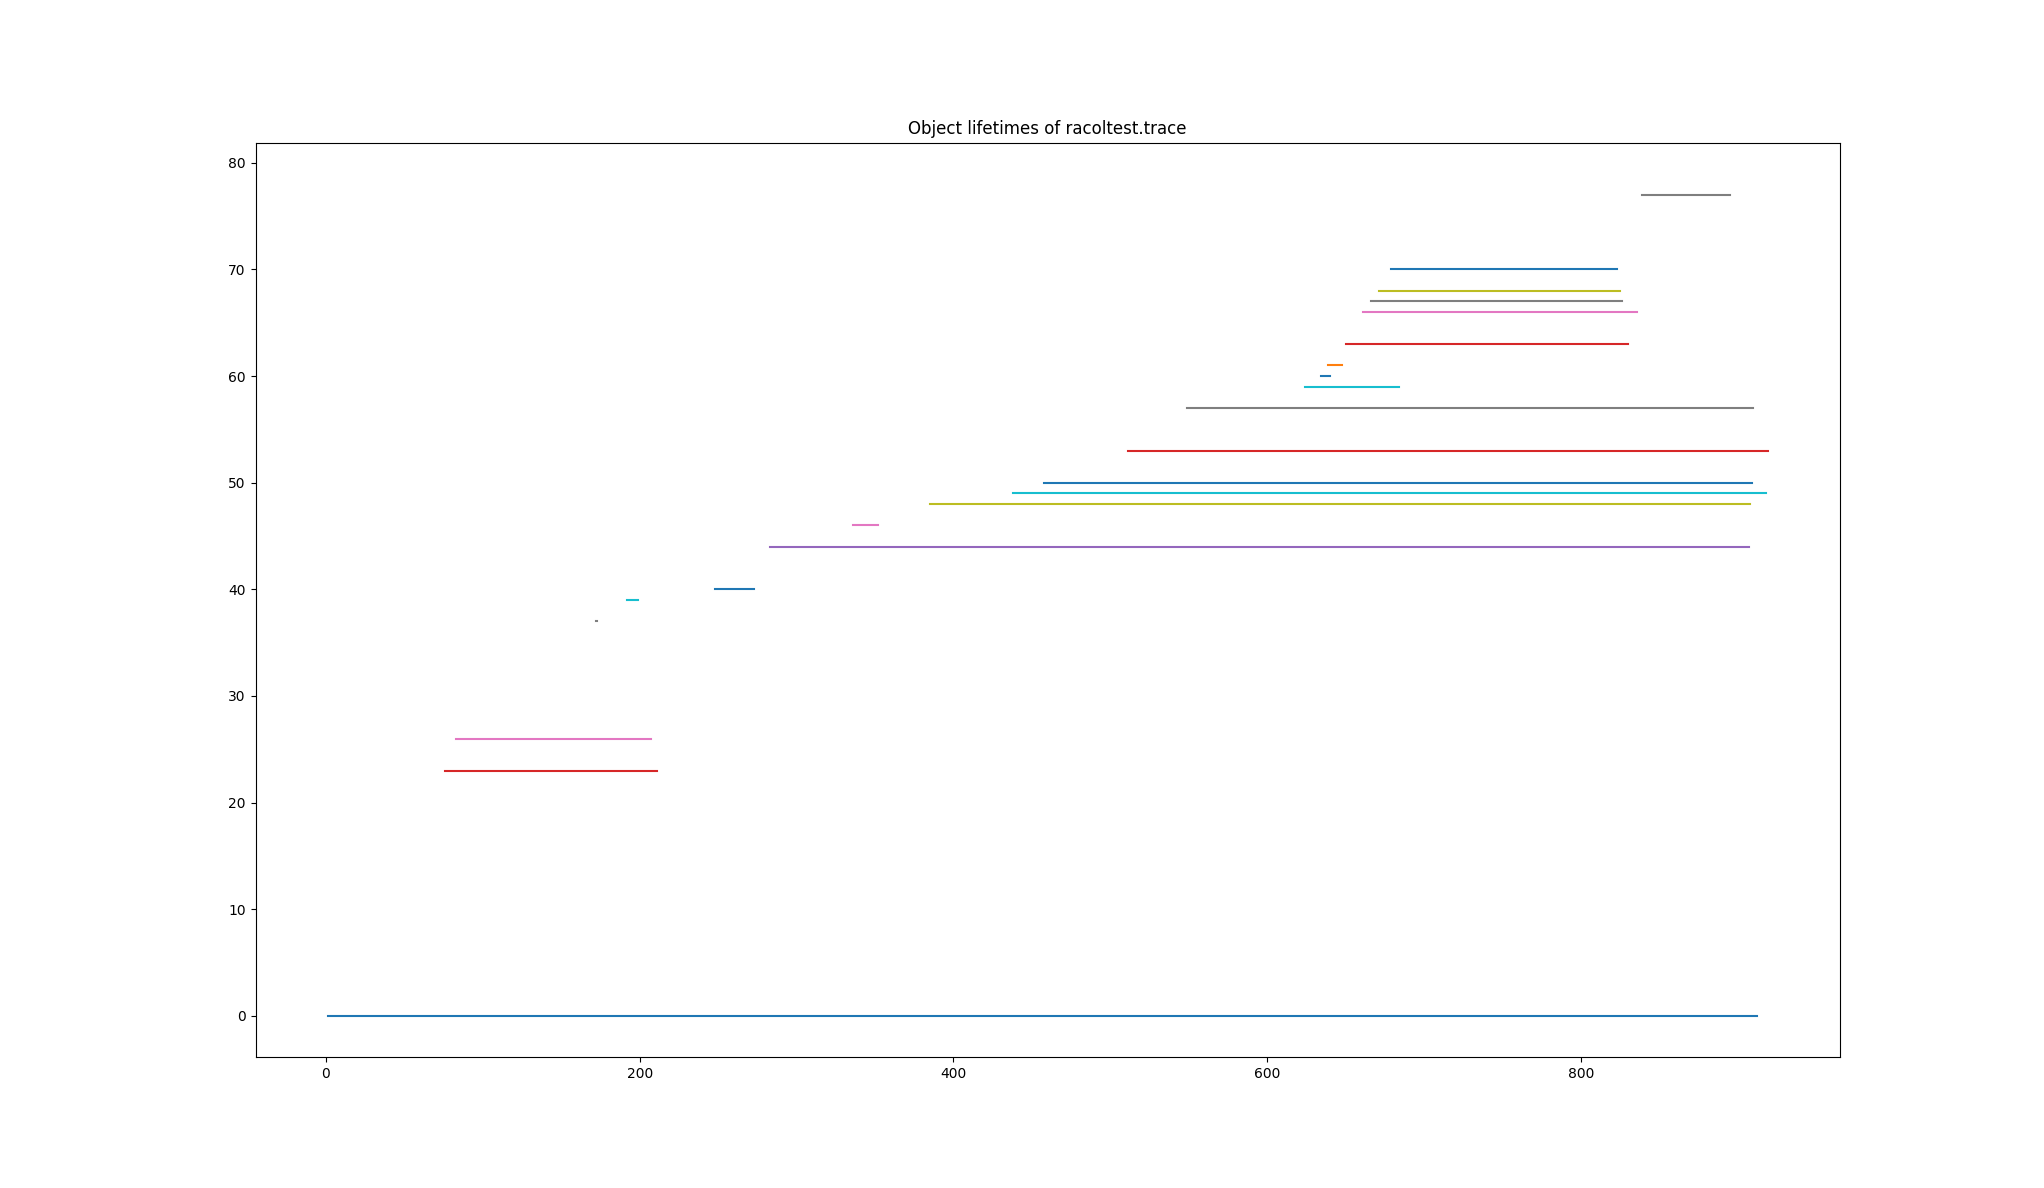
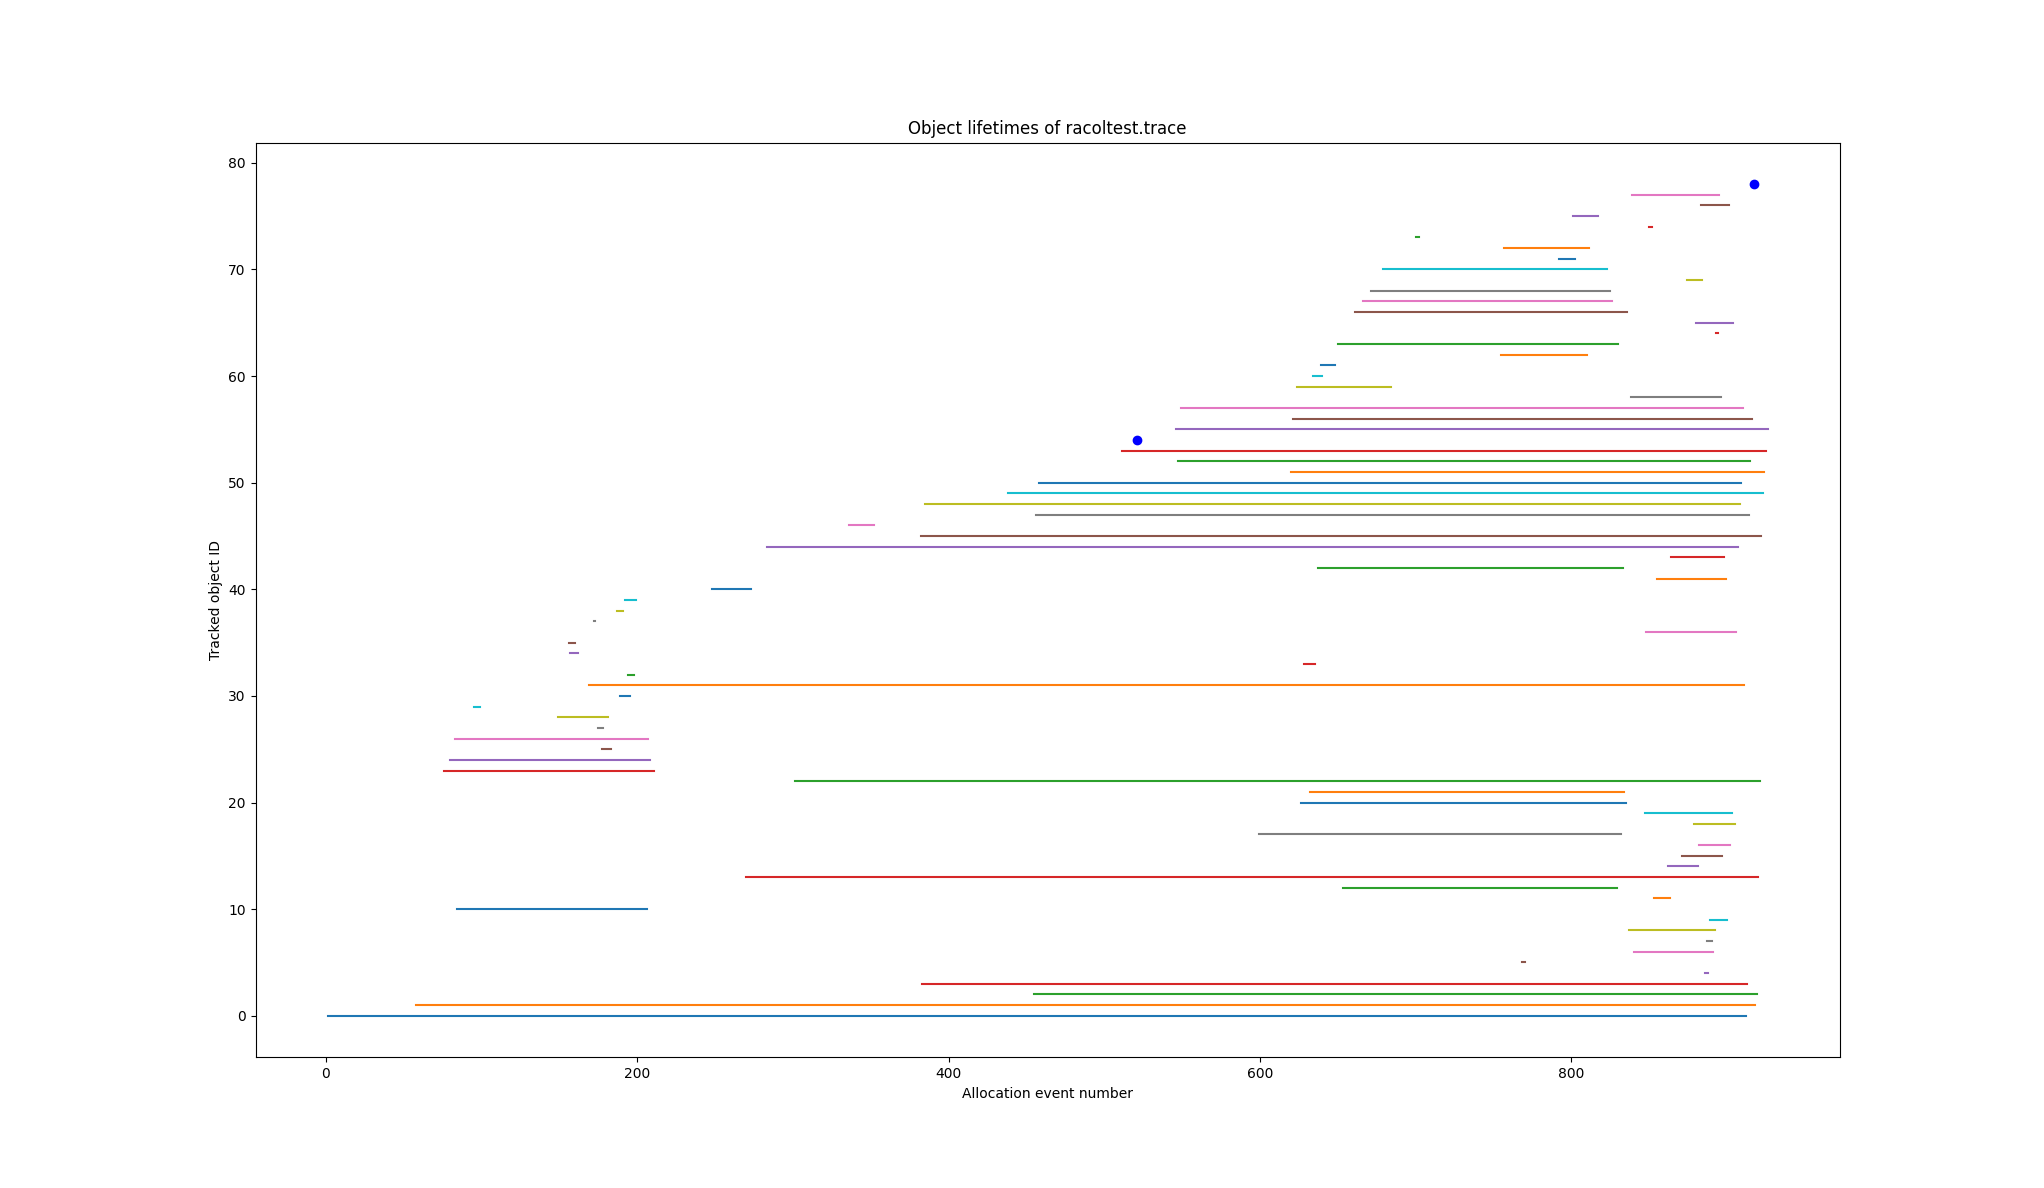
Fixed setting dealloc on every remap

diff --git a/lifetime-analysis.py b/lifetime-analysis.py
@@ -12,9 +12,8 @@ valid_ops = ['-', '+', '!', '>', '<']
 
 class MemObject:
 	dealloc_time = None
-	def __init__(self, address, op, size, alloc_time):
+	def __init__(self, address, size, alloc_time):
 		self.address = address
-		self.op = op
 		self.size = size
 		self.alloc_time = alloc_time
 
@@ -42,10 +41,10 @@ def parse_log_line(line, num):
 	return address, op, size
 
 
-def remap_obj(address, op, size, num):
-	objects[random.random] = objects[address]
-	objects[address] = MemObject(address, op, size, num)
-	objects[address].dealloc_time = num
+def remap_obj(address, size, num):
+	new_hash = random.random
+	objects[new_hash] = objects[address]
+	objects[address] = MemObject(address, size, num)
 
 
 def track_obj(address, op, size, num):
@@ -53,9 +52,10 @@ def track_obj(address, op, size, num):
 	if tracked_obj is None:
 		if op == "<":
 			# pointer realloc'd before being assigned. ignore this
+			print("pointer realloc'd before being assigned")
 			pass
 		else:
-			objects[address] = MemObject(address, op, size, num)
+			objects[address] = MemObject(address, size, num)
 			if op == '-' or op == "!":
 				objects[address].dealloc_time = num
 	else:
@@ -63,25 +63,28 @@ def track_obj(address, op, size, num):
 		if op == "-":
 			# reusing already freed memory
 			if tracked_obj.dealloc_time:
-				remap_obj(address, op, size, num)
+				remap_obj(address, size, num)
 			else:
 				tracked_obj.dealloc_time = num
 		# Alloc
 		elif op == "+":
 			if tracked_obj.dealloc_time:
 				# reusing already freed memory
-				remap_obj(address, op, size, num)
+				remap_obj(address, size, num)
 			else:
 				# error: double assigning memory. do not track this
+				print("double assigning memory")
 				pass
 		# Alloc fail
 		elif op == "!":
 			# realloc failed. ignore
+			print("realloc failed")
 			pass
 		# ptr realloc'd
 		elif op == "<":
 			if tracked_obj.dealloc_time:
 				# double freeing. ignore
+				print("double freeing")
 				pass
 			else:
 				tracked_obj.dealloc_time = num
@@ -89,16 +92,17 @@ def track_obj(address, op, size, num):
 		elif op == ">":
 			if tracked_obj.dealloc_time:
 				# reusing already freed memory
-				remap_obj(address, op, size, num)
+				remap_obj(address, size, num)
 			else:
 				# error: double assigning memory. do not track this
+				print("double assigning memory")
 				pass
 
 
 def plot_obj(obj, y, axis):
 	if (obj.dealloc_time - obj.alloc_time) < 1:
-		print(f"Temp lifetime object @ {hex(obj.address)}")
 		axis.plot(obj.alloc_time, y, 'bo')
+		print(f"Temp object @ {hex(obj.address)}, {obj.alloc_time}")
 	else:
 		axis.plot([obj.alloc_time, obj.dealloc_time], [y, y])
 
@@ -127,7 +131,7 @@ def main():
 			final_event += 1
 			obj.dealloc_time = final_event
 		plot_obj(obj, num, ax)
-	ax.set_title(f"Object lifetimes of {sys.argv[1]}")
+	ax.set(xlabel="Allocation event number", ylabel="Tracked object ID", title=f"Object lifetimes of {sys.argv[1]}")
 	plt.show()
 
 if __name__ == "__main__":
